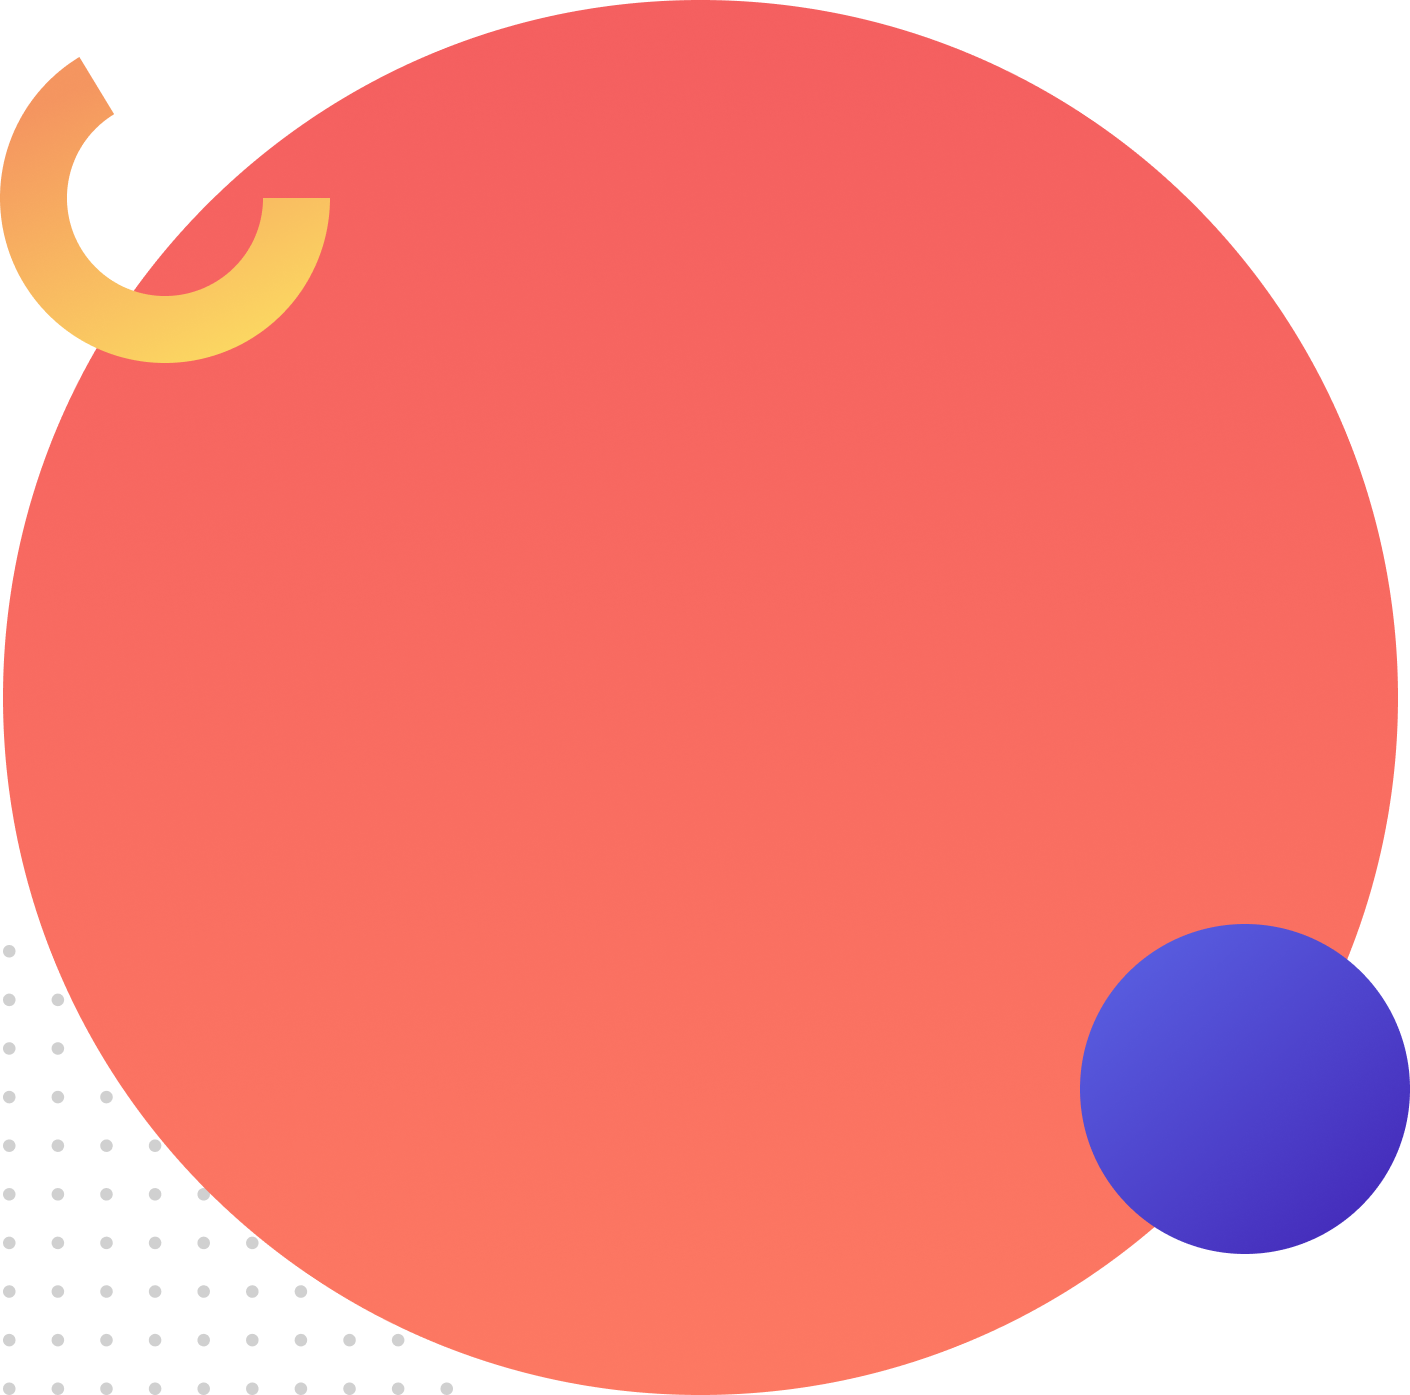
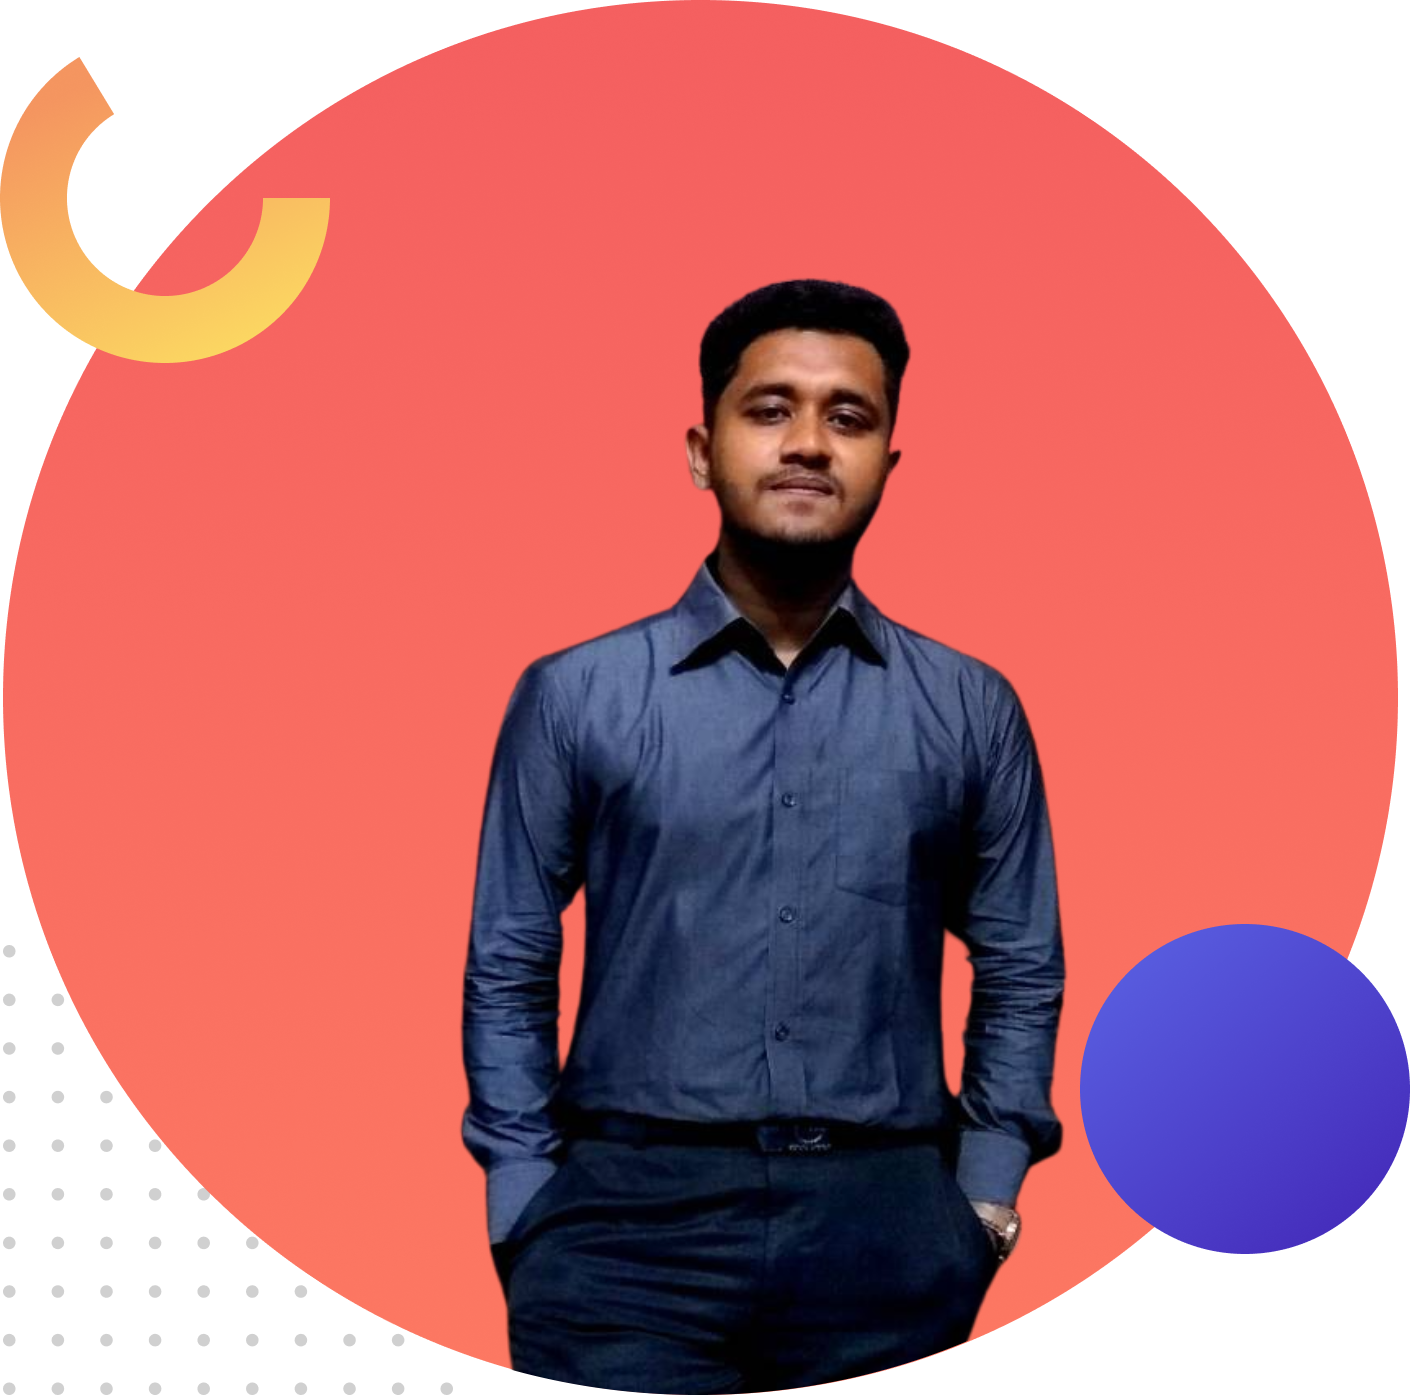
secod section done

Changed region(s): [[0.3121, 0.1849, 0.7801, 1.0]]

diff --git a/index.html b/index.html
@@ -6,27 +6,27 @@
     <title>Personal Website</title>
 
     <link rel="preconnect" href="https://fonts.gstatic.com">
-    <link href="https://fonts.googleapis.com/css2?family=Fira+Sans&display=swap" rel="stylesheet">
+    <link href="https://fonts.googleapis.com/css2?family=Open+Sans&display=swap" rel="stylesheet">
     
     <link rel="stylesheet" href="main.css">
 </head>
 <body>
-    <section>
+    <div class="nav-bar">
         <ul>
             <li><a href="#">About</a></li>
-             <li><a href="#">Work</a></li>
-             <li><a href="#">Portfolio</a></li>
-             <li><a href="#">Contact</a></li>
+            <li><a href="#">Work</a></li>
+            <li><a href="#">Portfolio</a></li>
+            <li><a href="#">Contact</a></li>
         </ul>
-      
-    </section>
+    </div>
     <section>
-        <div>
-            <h1>HELLO, I'M</h1>
-            <h1>Mohammad Yeasin</h1>
+        <div class="half-width">
+            <h1>HELLO I'M<br><span>Mohammad Yeasin</span></h1>
+            <p>A full stack allround designer that placerat in massa consectetur.</p>
+            <a class="button-hire" href="#">Hire Me</a>
         </div>
-        <div>
-
+        <div class="half-width">
+            <img src="img/img-top.png" alt="#">
         </div>
     </section>
    

diff --git a/main.css b/main.css
@@ -1,20 +1,20 @@
 body{
     margin:0px;
     padding:0px;
-    font-family: 'Fira Sans', sans-serif;
+    font-family: 'Open Sans', sans-serif;
 }
 section{
     margin-bottom: 100px;
 }
 ul{
     float:right;
-    margin-right: 5%;
+    margin-right: 10%;
 }
 ul li{
     list-style-type: none;
     display: inline-block;
     padding:5px;
-    margin-right: 20px;
+    margin-right: 30px;
 }
 ul li:hover{
     background-color:#ff8367;
@@ -28,5 +28,41 @@ ul li a:hover{
 ul li a{
     text-decoration: none;
     color:rgb(41, 40, 40);
+    font-weight: bold;
+}
+.nav-bar{
+    height:60px;
+    margin-bottom: 50px;
+}
+section{
+    margin-bottom:100px;
+}
+.button-hire{
+    padding: 10px;
+    background-color: #ff8367;
+    text-decoration: none;
+    color:white;
+    font-weight: bold;
+    border-radius: 5px;
+
+}
+.half-width{
+    widows: 40%;
+    float: left;
+    margin-left: 5%;
+    padding:3%;
+}
+.half-width h1{
+    color:#363958;
+    font-size: 50px;
+    font-weight: bold;
+}
+img{
+    height: 450px;
+    width: 450px;
+}
+p{
+    color:dimgray;
+    font-size: 20px;
     font-weight: bold;
 }
